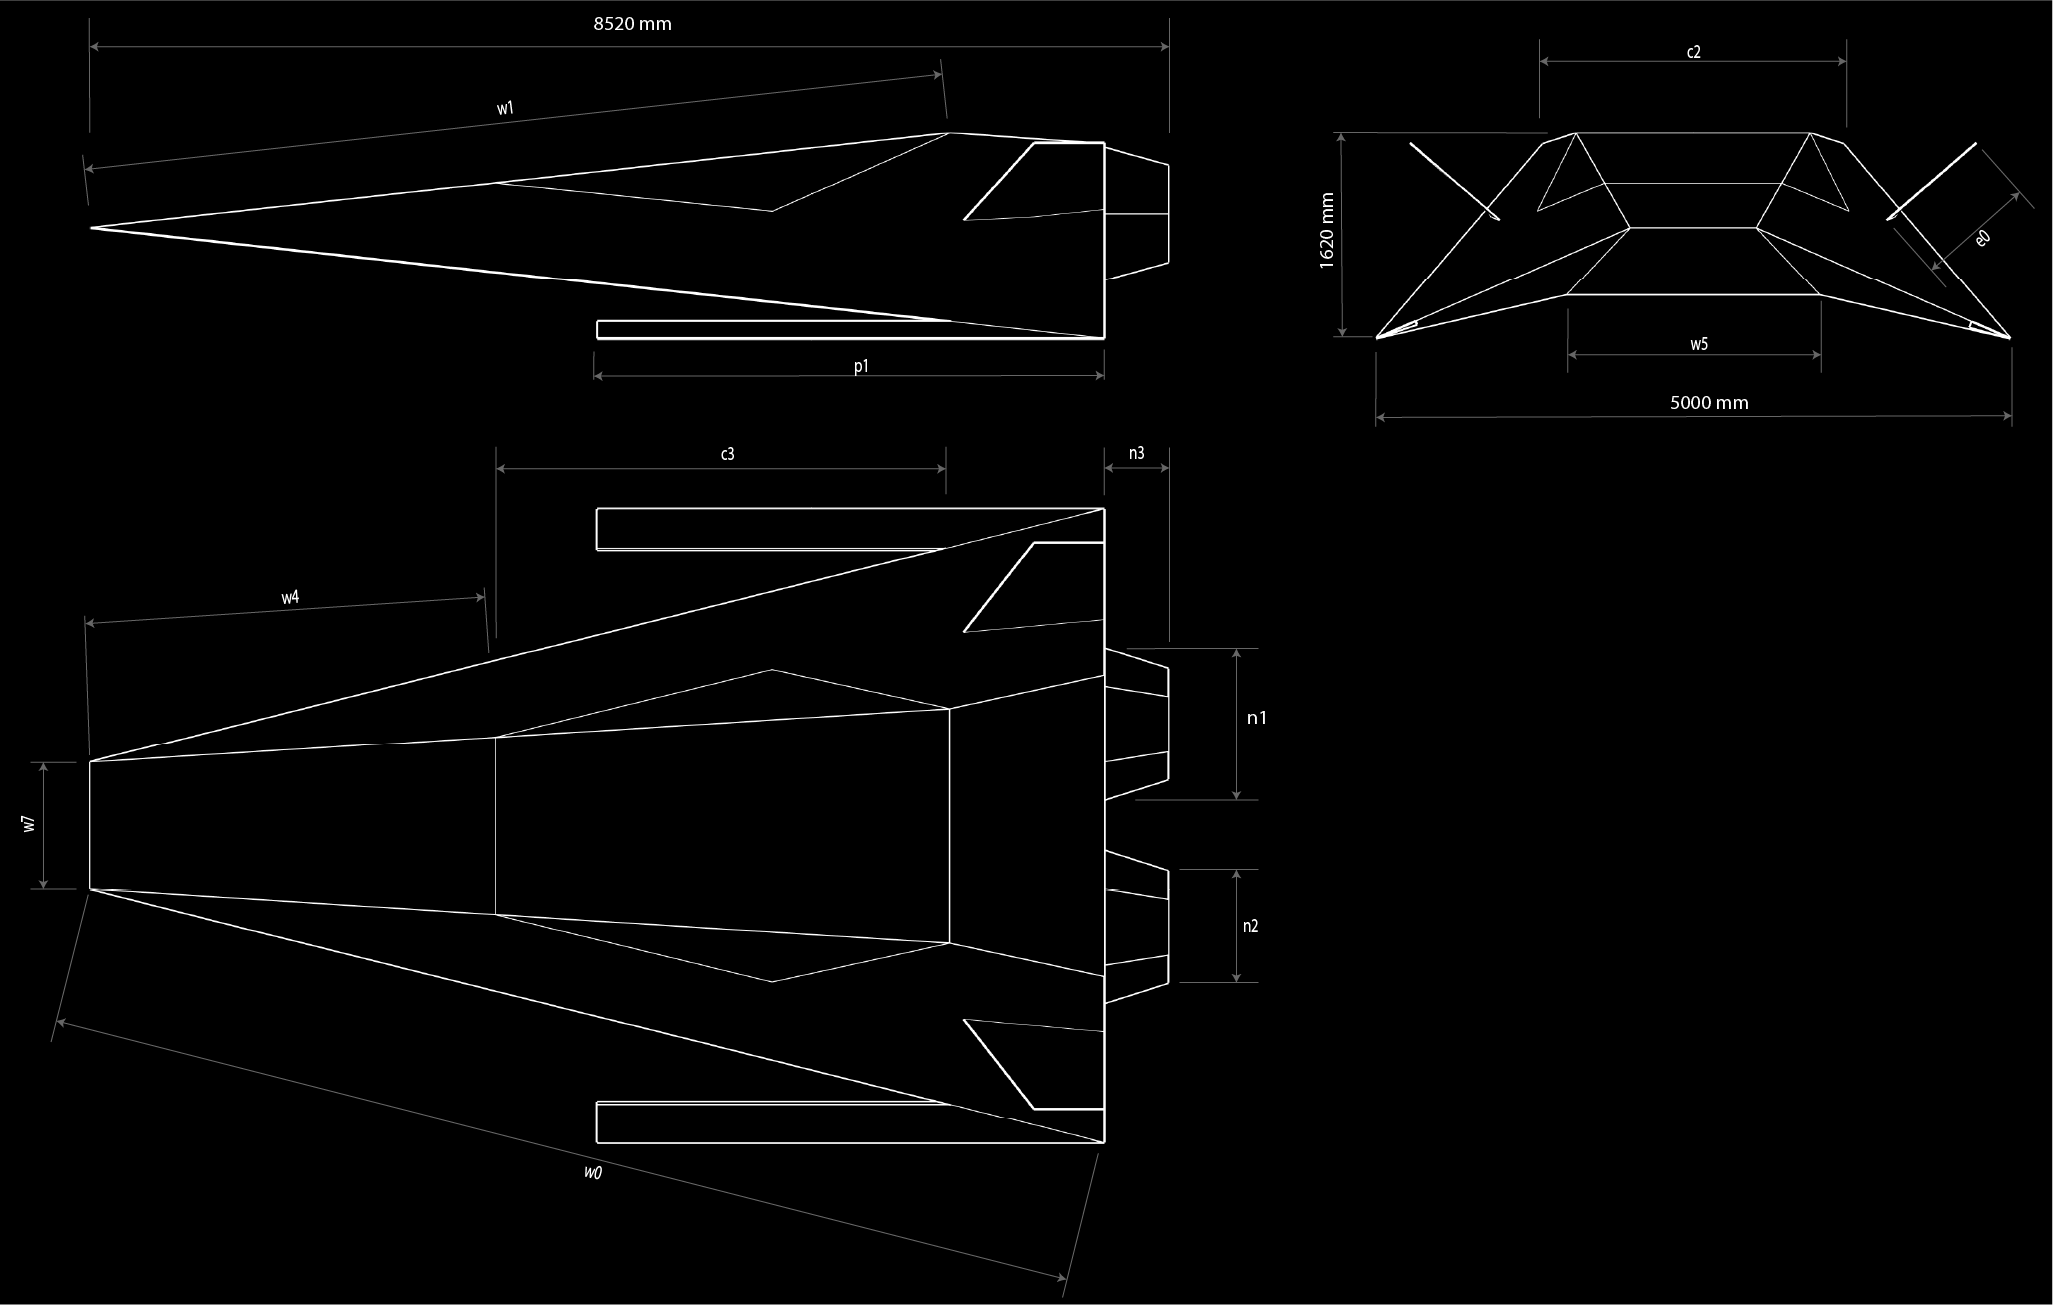
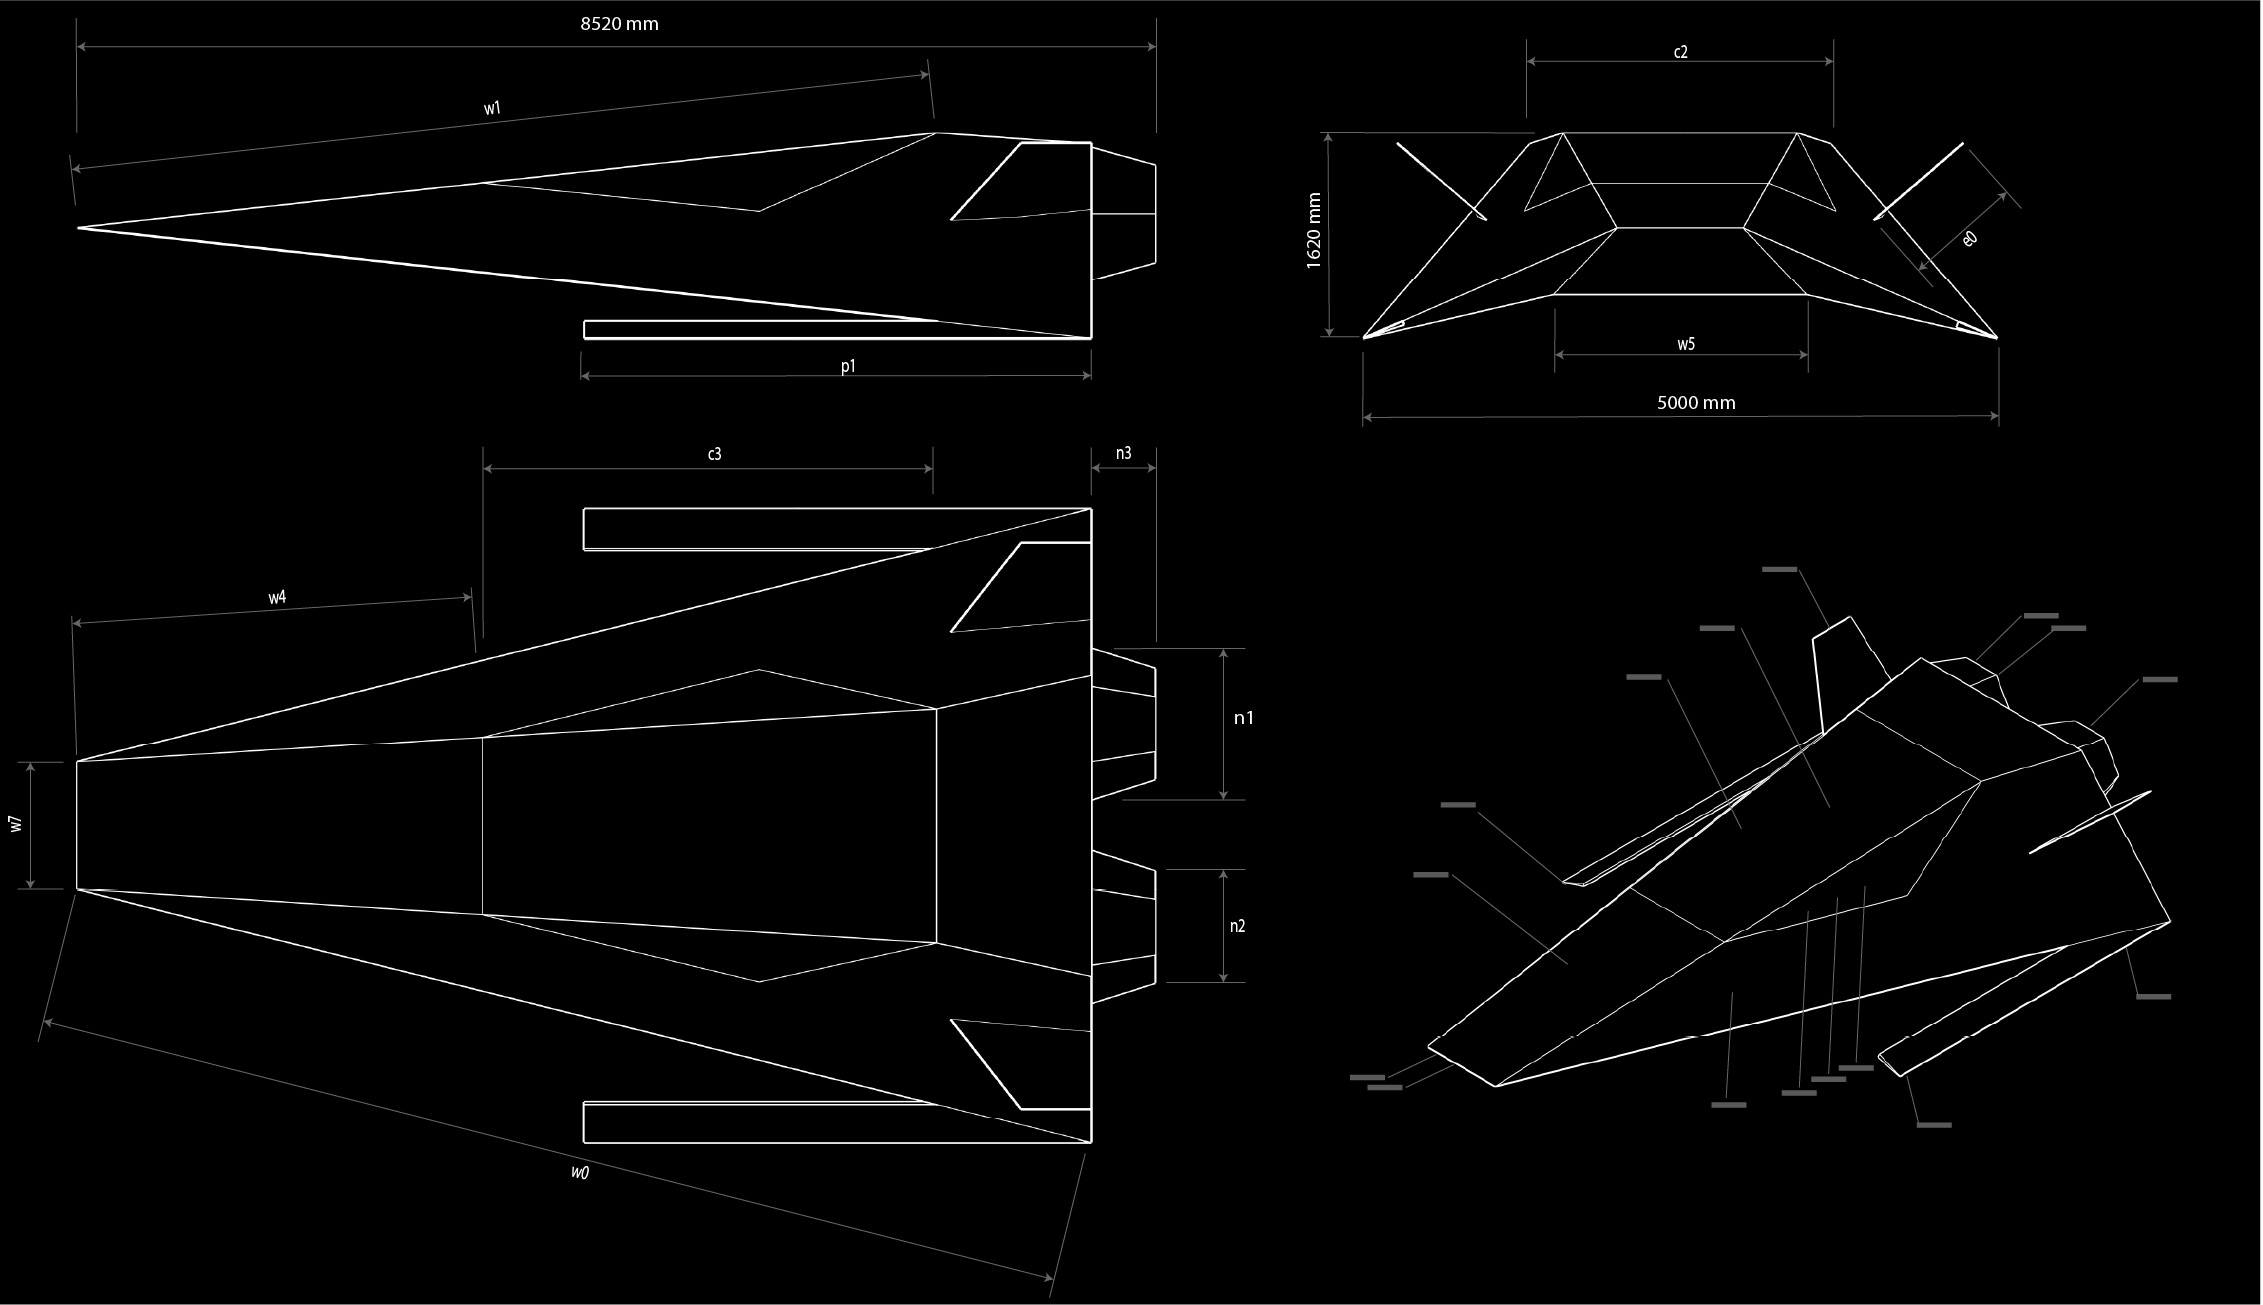
Missile schematics added

diff --git a/exo57-striker.html b/exo57-striker.html
@@ -135,18 +135,18 @@
     <strong>Crew:</strong> 1 pilot, with accommodation for 2 additional passengers<br>
     <strong>Mass (empty):</strong> 9,310 kg<br>
     <strong>Mass (gross):</strong> 10,070 kg<br>
-    <strong>Propulsion:</strong> 2 × Graff vectoring fusion torch engines<br>
-    <strong>Primary armament:</strong> Pulse-coupled laser cannon<br>
-    <strong>Secondary armament:</strong> Plasma missiles<br>
+    <strong>Powerplant:</strong> 2 × Graff A33 vectoring fusion torch engines<br>
+    <strong>Armament (primary):</strong> Avro LT030 Pulse-coupled laser cannon<br>
+    <strong>Armament (secondary):</strong> Avro "Griffin" N-117A Plasma missiles<br>
     <strong>Defensive systems:</strong> Magnetically contained plasma shielding
 </p>
 
-<img src="images/ship_schematics.png" alt="EXO-57 Striker" class="lore-image" />
+<img src="images/ship_schematics.png" alt="EXO-57 Striker schematics" class="lore-image" />
 
 <h2>Powerplant</h2>
 
 <p>
-    The EXO-57 is powered by two Graff vectoring fusion torch engines,
+    The EXO-57 is powered by two Graff A33 vectoring fusion torch engines,
     each capable of generating more than 1,000 kN of thrust.
 </p>
 
@@ -175,7 +175,7 @@
 <h3>Pulse-Coupled Laser Cannon</h3>
 
 <p>
-    The EXO-57's primary weapon is a rapid-firing pulse-coupled laser cannon.
+    The EXO-57's primary weapons are two Avro LT030 rapid-firing pulse-coupled laser cannons.
 </p>
 
 <p>
@@ -203,8 +203,10 @@
 
 <p>
     For heavily armoured targets and engagements beyond the effective
-    range of its laser cannon, the EXO-57 carries plasma missiles.
+    range of its laser cannon, the EXO-57 carries Avro "Griffin" N-117A plasma missiles.
 </p>
+
+<img src="images/missile_schematics.png" alt="Missile schematics" class="lore-image" />
 
 <p>
     Each missile is propelled by a miniature fusion torch engine
